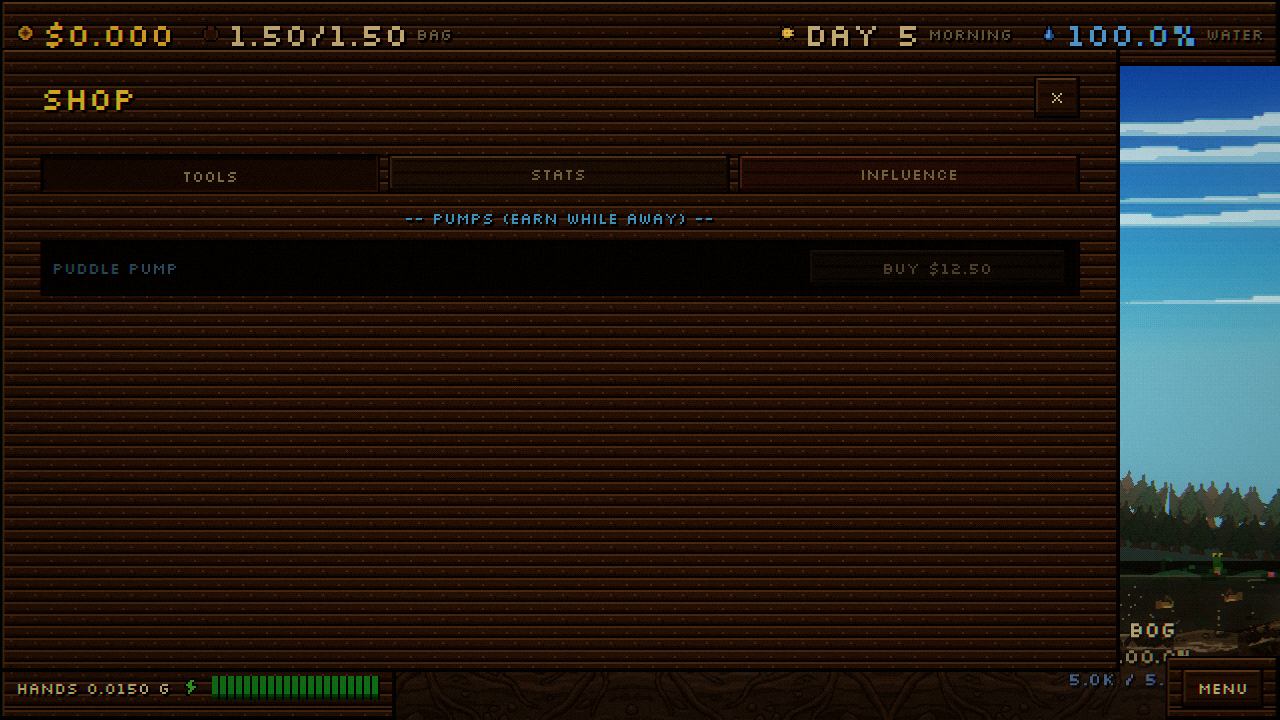
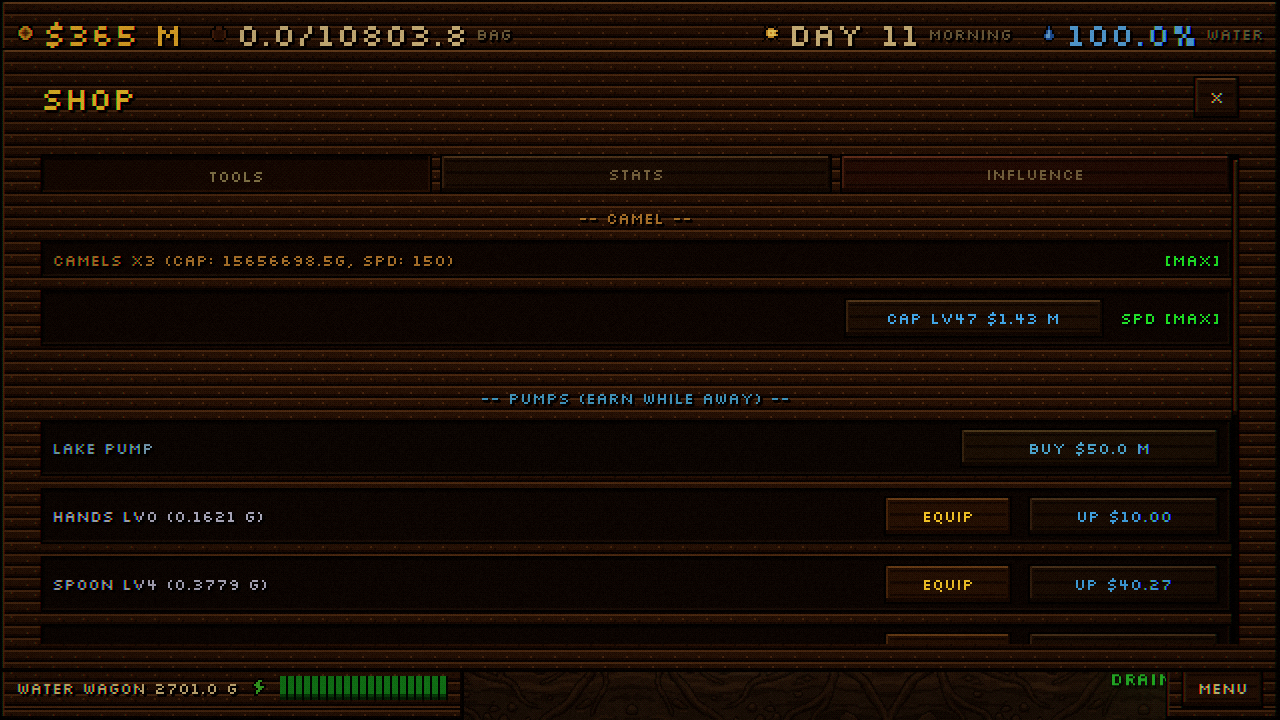
v3 hud: fix slider grabbers, menu overflow, shop contrast, shop width
Coordinator review round 2 on shop_open/menu_open/touch/verify_day:

1. Baked a pixel brass-knob HSlider grabber (tools/bake/ui_kit.py) and wired
   it into ui_theme.tres, replacing the default smooth AA circle.
2. Menu panel overflowed at 720p (RESTART GAME cut off, overlapped the
   bottom bar): tightened anchors/margins/separation, 2x2 audio-slider grid
   instead of 4 stacked rows, smaller buttons, clip_contents as a safety net.
3. Shop row text was dim blue-grey on near-black: lightened the baked
   panel_inset.png palette, dropped PixelUI.inset()'s tint blend from 0.35
   to 0.15 (a dark saturated tint was multiplying the texture darker, not
   lighter), and brightened the specific dim label colors toward cream while
   keeping locked/unbought rows visibly dimmer than owned ones.
4. Shop panel covered ~88% of the screen with a right-side sliver: the
   open()/close() tween's position.x reset to 0.0 only moves offset_left on
   a full-rect-anchored Control, so the panel's -40 right margin never got
   restored on slide-in. Went full-width between the bars instead of
   re-centering — fixes the animation for free and gives the scrollable
   row list more room.

Also fixed a real script error surfaced while re-verifying: shop_panel.gd
was setting border_width_left/border_color (StyleBoxFlat-only) on a
StyleBoxTexture to highlight the equipped tool row, throwing on every shop
open. Replaced with a brighter green PixelUI.inset() tint.
[…]

diff --git a/tools/bake/ui_kit.py b/tools/bake/ui_kit.py
@@ -21,10 +21,12 @@ W_MID = (88, 60, 36)
 W_BASE = (112, 78, 46)
 W_LIGHT = (150, 110, 70)
 W_HI = (176, 136, 90)
-# inset slot (dark, warm)
-S_BASE = (44, 32, 26)
-S_DARK = (34, 24, 20)
-S_LIGHT = (66, 48, 38)
+# inset slot (dark, warm) — lightened from the original (44,32,26) base so
+# cream/parchment row text has real contrast against it (Wes: "PUDDLE PUMP"
+# / "BUY $12.50" were dim blue-grey on near-black)
+S_BASE = (70, 52, 40)
+S_DARK = (52, 38, 30)
+S_LIGHT = (96, 74, 58)
 # parchment
 P_BASE = (214, 190, 142)
 P_DARK = (190, 164, 116)
@@ -87,6 +89,21 @@ def panel_inset(size=12):
     d.line((1, 1, 1, size - 2), fill=S_DARK)
     d.line((1, size - 2, size - 2, size - 2), fill=S_LIGHT)
     d.line((size - 2, 1, size - 2, size - 2), fill=S_LIGHT)
+    return img
+
+
+def slider_grabber(size=8, highlight=False):
+    """Small brass/wood knob for HSlider (replaces the default smooth white
+    circle, which read as programmer art next to the baked wood panels)."""
+    img = new(size, size)
+    d = ImageDraw.Draw(img)
+    if highlight:
+        base, light, dark = (214, 176, 100), (238, 210, 144), (150, 112, 58)
+    else:
+        base, light, dark = (176, 140, 70), (206, 172, 102), (110, 82, 40)
+    d.ellipse((0, 0, size - 1, size - 1), fill=base, outline=OUTLINE)
+    d.point([(2, 2), (3, 2), (2, 3)], fill=light)
+    d.point([(size - 3, size - 2), (size - 2, size - 3), (size - 3, size - 3)], fill=dark)
     return img
 
 
@@ -310,6 +327,8 @@ def main():
         "btn_disabled.png": button("disabled"),
         "bar_frame.png": bar_frame(8),
         "bar_fill.png": bar_fill(),
+        "slider_grabber.png": slider_grabber(8, False),
+        "slider_grabber_hi.png": slider_grabber(8, True),
         "touch_left.png": touch_button("left", 40, False),
         "touch_left_p.png": touch_button("left", 40, True),
         "touch_right.png": touch_button("right", 40, False),

diff --git a/docs/plans/revamp-tracks/hud.md b/docs/plans/revamp-tracks/hud.md
@@ -59,6 +59,61 @@ town art (`_screenshots/lookdev-2026-09-10/fix_town.png`). `tools/capture.py
 --check` prints only the known pre-existing `Parameter "t" is null` boot
 error, otherwise clean.
 
+## Review round 2 (coordinator, read shop_open/menu_open/touch/verify_day)
+
+Four fixes, all addressed this round:
+
+1. **Slider grabbers were smooth AA circles.** Added `slider_grabber()` to
+   `tools/bake/ui_kit.py` (small brass/wood knob, PIL `ellipse` — no
+   anti-aliasing at this size, so it comes out crisp pixel-block like
+   everything else) and wired `HSlider/icons/grabber`,
+   `grabber_highlight`, `grabber_disabled` in `assets/ui_theme.tres`. Baked
+   `assets/art/ui/slider_grabber.png` + `slider_grabber_hi.png`.
+2. **Menu overflowed at 720p** ("RESTART GAME" cut off, bottom bar overlap).
+   Root cause: too much stacked content (8 rows incl. 4 separate audio-slider
+   rows) for the panel's vertical budget. Fixed in `scenes/ui/menu_panel.tscn`
+   (tighter anchors 20/-20 instead of 50/-50, margins 14/6 instead of 16/12,
+   `ButtonList` separation 4 instead of 8, `clip_contents = true` as a
+   safety net) and `scripts/ui/menu_panel.gd` (button height 18 instead of 22,
+   audio sliders now a 2x2 `GridContainer` instead of 4 stacked rows). Fits
+   fully inside the top/bottom bars at 720p now with room to spare.
+3. **Shop row text was dim blue-grey on near-black.** Two causes: the baked
+   `panel_inset.png` was very dark (`S_BASE` (44,32,26)), and
+   `PixelUI.inset()`'s category-tint blend (0.35) was actually *darkening*
+   low-saturation tints further (multiplying a near-black texture by a dim
+   hue drives it darker, not lighter). Lightened the inset bake palette,
+   dropped the tint blend to 0.15 so it reads as a faint hue wash instead of
+   the main value source, and brightened the specific dim label colours in
+   `scripts/ui/shop_panel.gd` (locked tools, unbought pumps/stats/upgrades,
+   prestige rows) toward cream/parchment while keeping them visibly dimmer
+   than owned/equipped rows (still distinguishable).
+4. **Shop panel covered ~88% of the screen, sliver on the right.** Traced to
+   a real bug, not just a layout choice: `open()`/`close()` tween
+   `position.x` from `vp_w` to `0.0`, but the panel's anchors held a 40px
+   margin on *both* sides (`offset_left=40, offset_right=-40`). For a
+   full-rect-anchored Control, setting `position.x` only moves
+   `offset_left` — the tween's rest value of `0.0` overwrote the left margin
+   but left `offset_right=-40` alone, so the panel ballooned flush to the
+   left edge with only the right margin surviving. **Chose full-width
+   between the bars** (`offset_left = offset_right = 0.0` in
+   `scenes/ui/shop_panel.tscn`) over re-centering: it fixes the slide
+   animation for free (the tween's rest position now matches the anchor
+   layout exactly, no distortion), and the shop's scrollable row list
+   benefits from the extra width more than a centered dialog would.
+
+Also found and fixed a real script error while re-verifying: `shop_panel.gd`
+was setting `border_width_left` / `border_color` on a `StyleBoxTexture`
+(StyleBoxFlat-only properties) to highlight the equipped tool row — this
+threw a script error on every shop open (`tools/capture.py --check` with
+`DTS_UI=shop` was not clean before this fix). Replaced with a brighter green
+`PixelUI.inset()` tint for the equipped row instead.
+
+New captures at 1280x720 (`_screenshots/revamp-2026-09-11/hud/`):
+`shop_open.png`, `menu_open.png`, `desktop_touch_off.png` (plain desktop
+capture, touch controls confirmed hidden — no arrow/scoop buttons drawn).
+`tools/capture.py --check` and `DTS_UI=shop python tools/capture.py --check`
+both clean.
+
 ## What is still old / out of scope
 
 - The billboard sprite and floating basin labels ("MARSH 100.0%", "BOG...")
